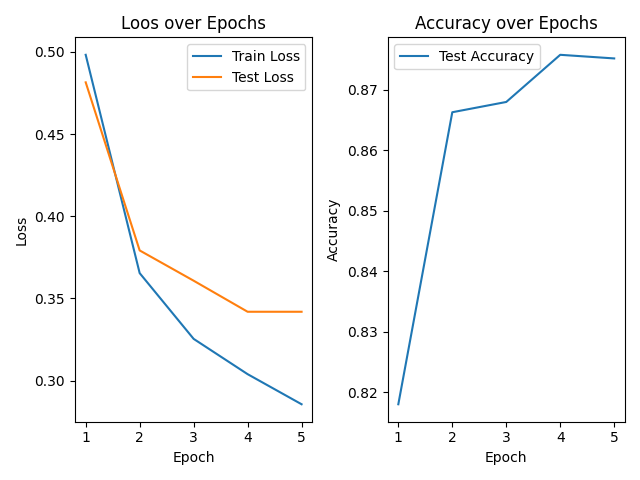
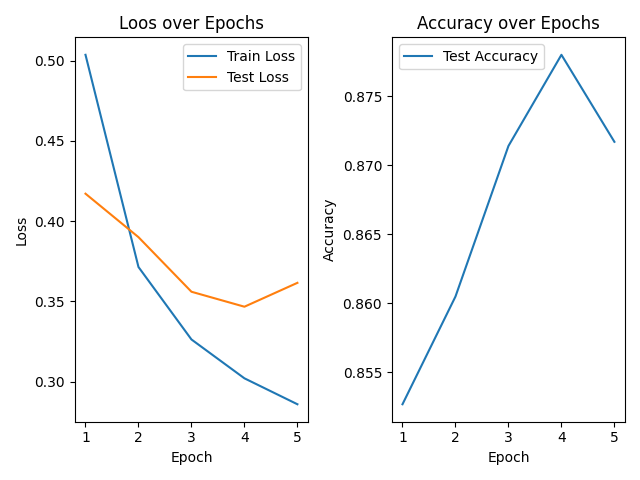
tilføj ekstra kommentarer

diff --git a/src/main.py b/src/main.py
@@ -70,7 +70,10 @@ model_file = "outputs/model_weights.pt"
 if os.path.exists(model_file):
     model.load_state_dict(torch.load(model_file))
     model.eval()
-
+    print("eksisterende")
+else:
+    print("ny model")
+    
 # Train funktion
 def train(dataloader, model, loss_fn, optimizer, device):
     model.train()  # Sæt model til træningstilstand
